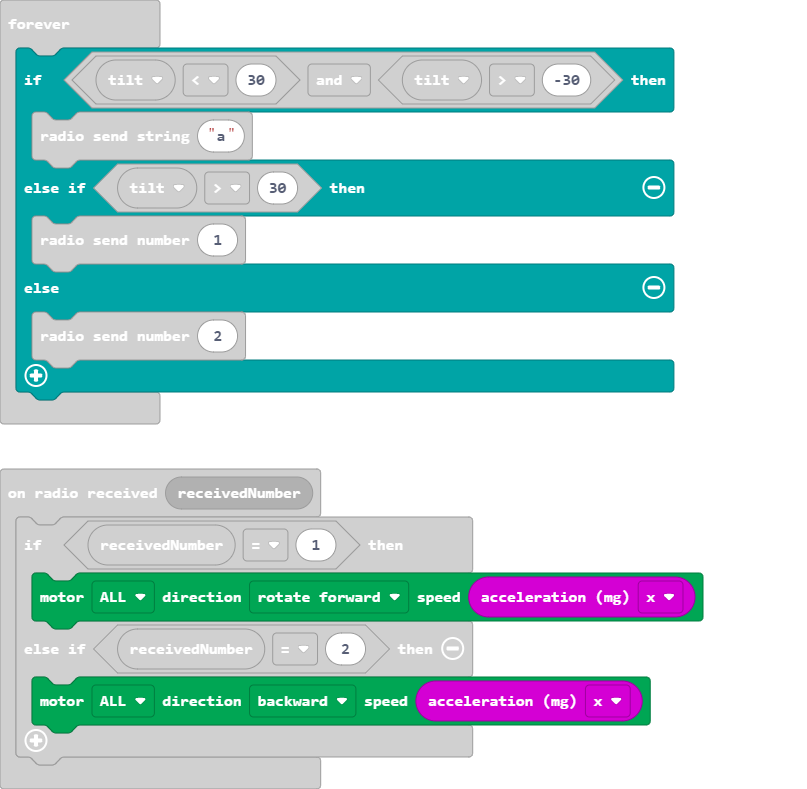
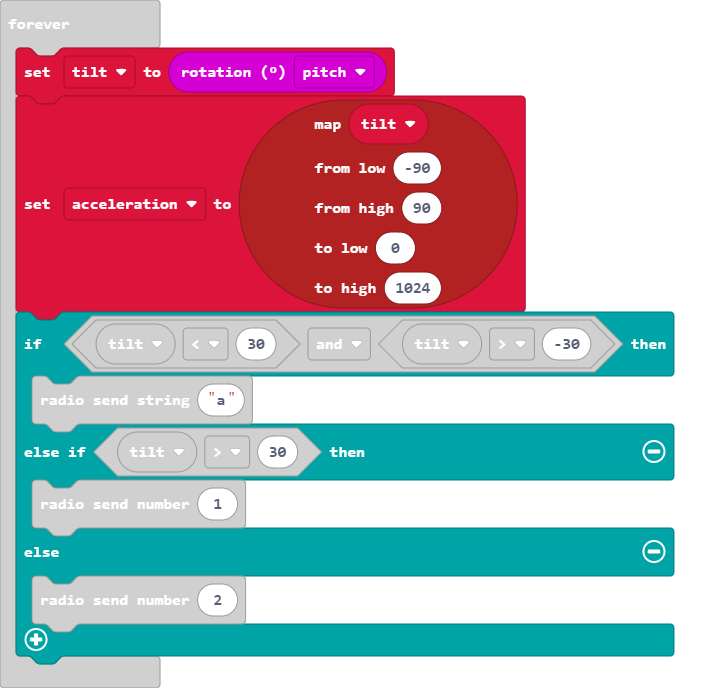
Update main.blocks, main.ts

diff --git a/main.ts b/main.ts
@@ -8,6 +8,8 @@ radio.onReceivedNumber(function (receivedNumber) {
 radio.onReceivedString(function (receivedString) {
     DFRobotMaqueenPlus.mototStop(Motors.ALL)
 })
+let acceleration = 0
+let tilt = 0
 basic.showLeds(`
     . . . . .
     . # . # .
@@ -16,7 +18,14 @@ basic.showLeds(`
     . . . . .
     `)
 basic.forever(function () {
-    let tilt = 0
+    tilt = input.rotation(Rotation.Pitch)
+    acceleration = pins.map(
+    tilt,
+    -90,
+    90,
+    0,
+    1024
+    )
     if (tilt < 30 && tilt > -30) {
         radio.sendString("a")
     } else if (tilt > 30) {
